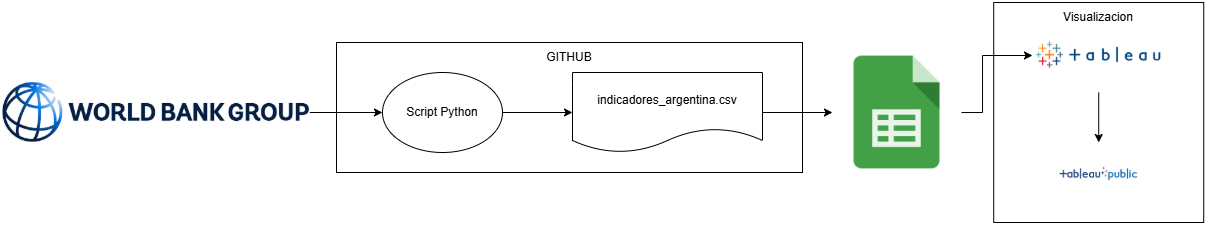
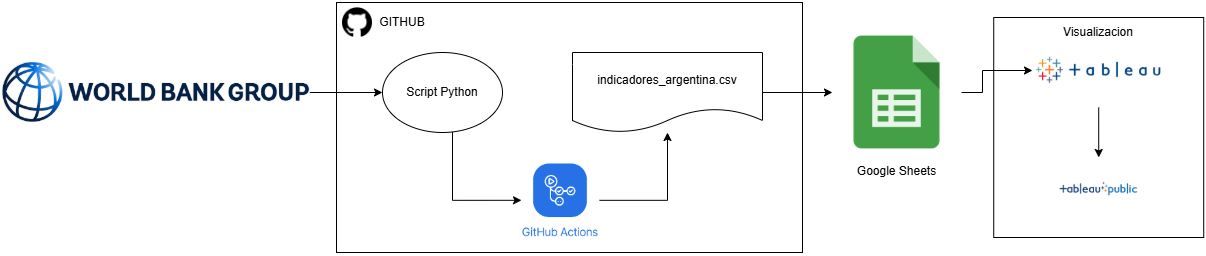
cambios en la arquitectura - se agrego github action

diff --git a/README.md b/README.md
@@ -24,7 +24,6 @@ Challenge_Meli/
 ├── arquitectura/
 │   └── arquitectura.drawio                    ← (arquitectura editable editable)
 │   └── arquitectura.png                       ← (Imagen de arquitectura)
-
 ├── dashboard/
 │   └── Dashboard - Indicadores Argentina.twb  ← Tablero final
 ├── images/
@@ -35,7 +34,7 @@ Challenge_Meli/
 ├── scripts/
 │   └── update_data.py                         ← Script Python que descarga y limpia los datos
 └── README.md                                  ← Este archivo
-
+```
 ---
 
 ## 🧠 Arquitectura utilizada
@@ -47,8 +46,8 @@ Challenge_Meli/
 ## ⚙ Flujo de trabajo automatizado
 
 1. 📡 El script `update_data.py` se conecta a la [API del World Bank](https://data.worldbank.org/)
-2. 🔁 Cada semana, GitHub Actions actualiza automáticamente el archivo `indicadores_argentina.csv`
-3. 📄 El dataset se sincroniza con Google Sheets, fuente directa en Tableau
+2. 🔁 Cada lunes a las 8 AM, GitHub Actions actualiza automáticamente el archivo `indicadores_argentina.csv`
+3. 📄 El dataset se sincroniza con Google Sheets, fuente directa en Tableau -> [Google Sheets](https://docs.google.com/spreadsheets/d/1-NrBl_xN3zb-0K65j1PRzJaoY4vGf7uFJmWdXyWddP0/edit?usp=sharing)
 4. 📊 Tableau Public consume estos datos y actualiza el dashboard
 
 ---
@@ -85,4 +84,3 @@ Challenge_Meli/
 Desarrollado por **María José Viña** como parte de un challenge de analítica y visualización para Mercado Libre utilizando datos del Banco Mundial desde el siguiente link.
 
 🔗[API del World Bank](https://data.worldbank.org/) 
-
